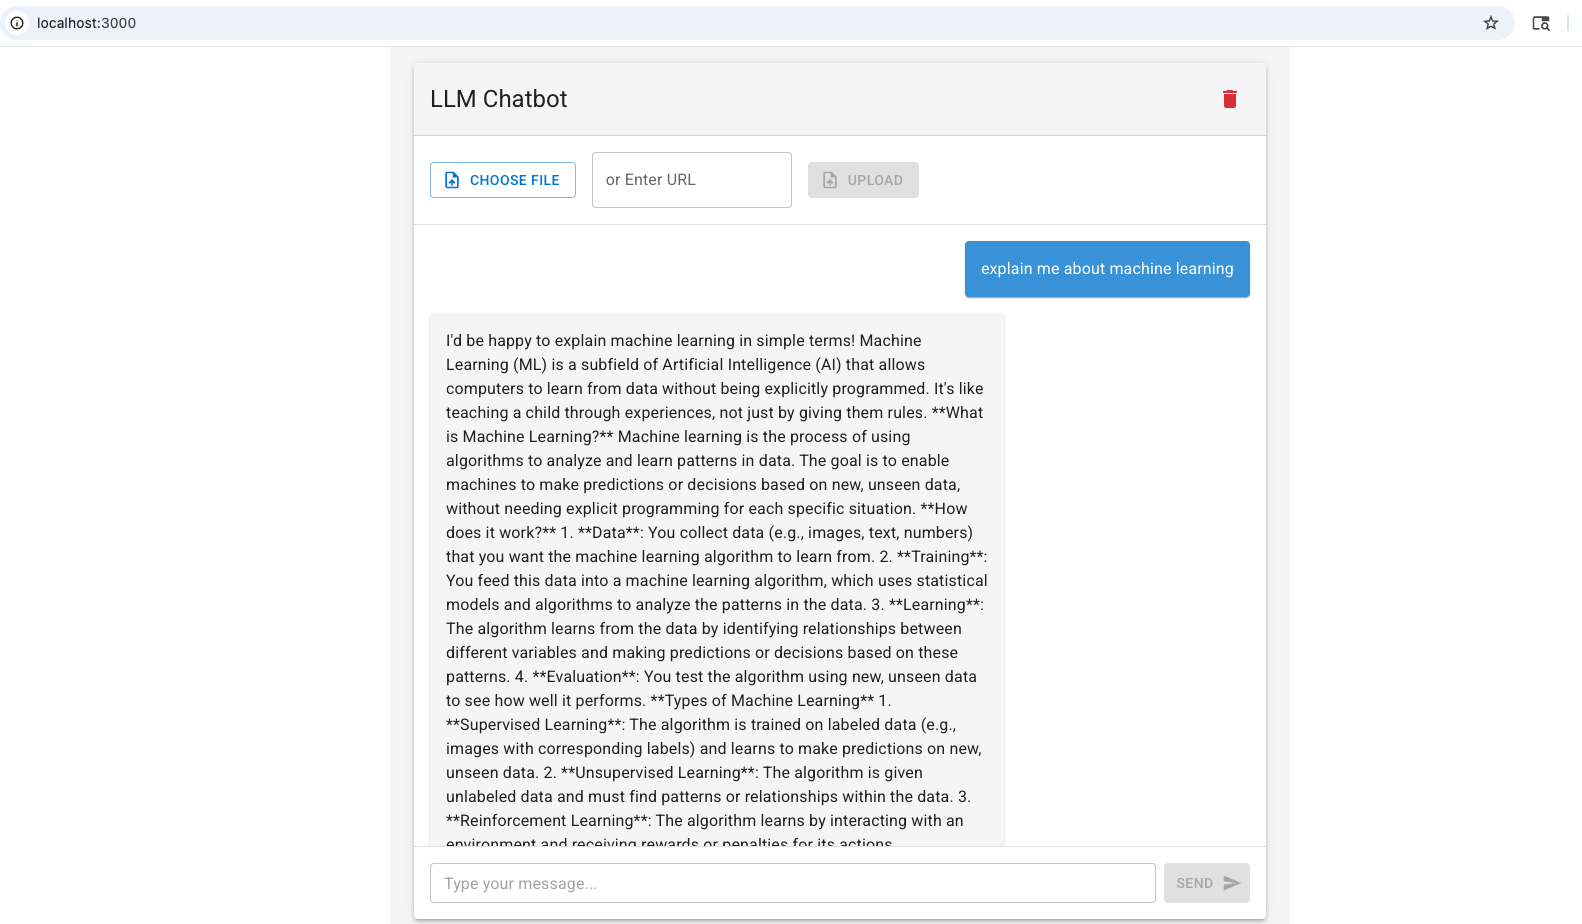
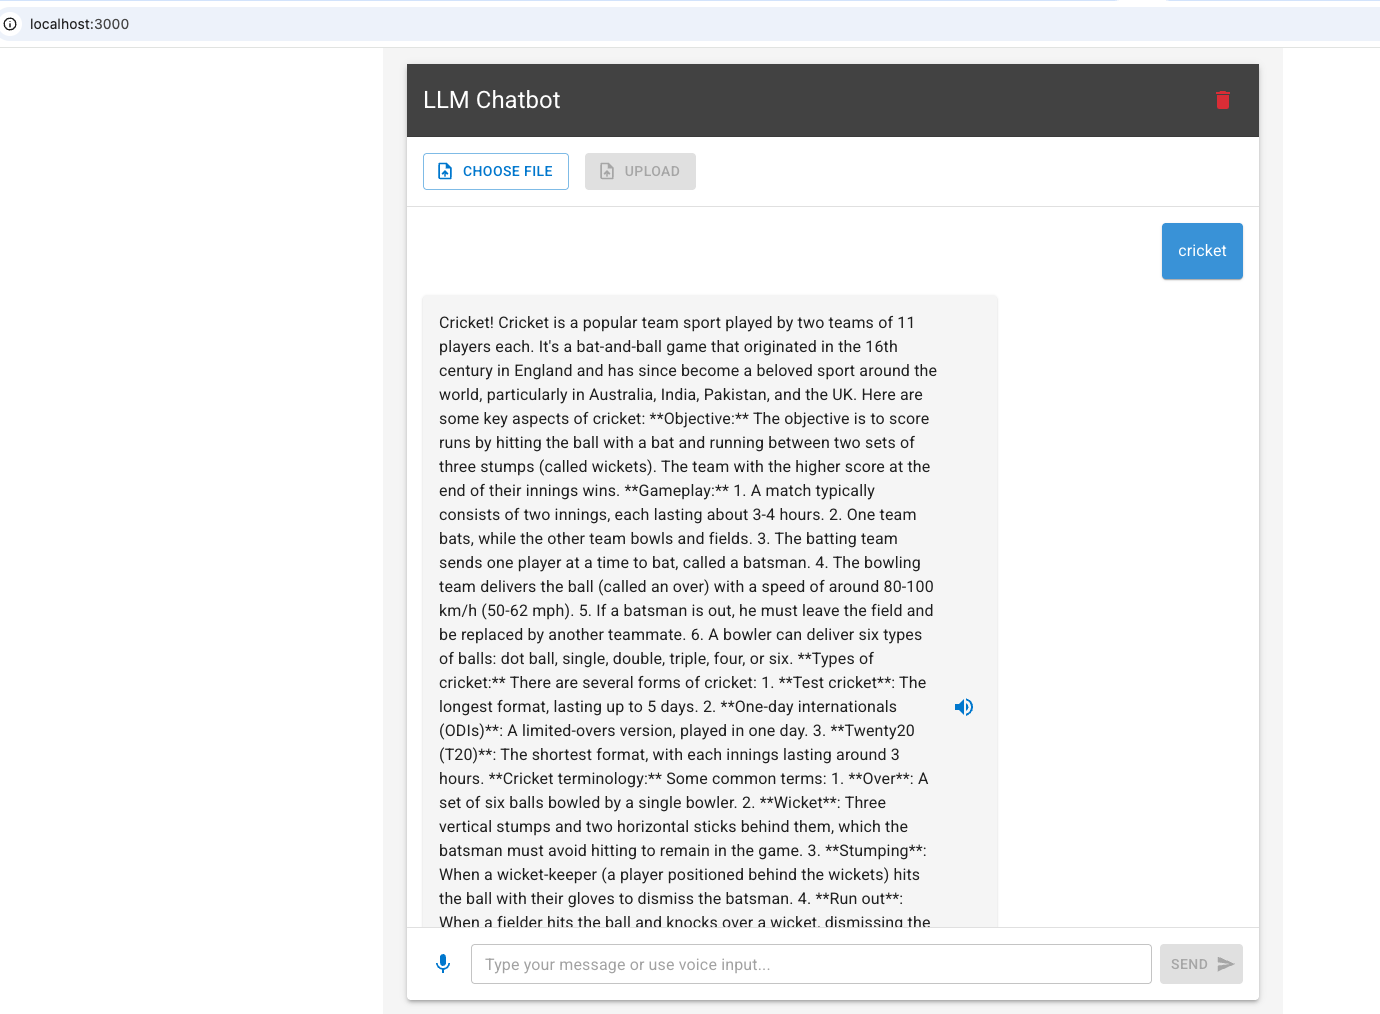
Cleanup

diff --git a/src/frontend/src/App.js b/src/frontend/src/App.js
@@ -163,8 +163,8 @@ function App() {
   };
 
   const handleRagUpload = async () => {
-    if (!ragFile && !ragUrl) {
-      setError('Please select a file or enter a URL');
+    if (!ragFile) {
+      setError('Please select a file');
       return;
     }
 
@@ -172,18 +172,11 @@ function App() {
     setError(null);
     
     try {
-      let response;
-      if (ragFile) {
-        const formData = new FormData();
-        formData.append('file', ragFile);
-        response = await api.post('/api/v1/rag', formData, {
-          headers: { 'Content-Type': 'multipart/form-data' },
-        });
-      } else if (ragUrl) {
-        response = await api.post('/api/v1/rag', {
-          url: ragUrl,
-        });
-      }
+      const formData = new FormData();
+      formData.append('file', ragFile);
+      const response = await api.post('/api/v1/rag', formData, {
+        headers: { 'Content-Type': 'multipart/form-data' },
+      });
 
       if (response.data.status === 'success') {
         setError(null);
@@ -192,7 +185,6 @@ function App() {
           sender: 'bot'
         }]);
         setRagFile(null);
-        setRagUrl('');
         if (fileInputRef.current) fileInputRef.current.value = '';
       } else {
         throw new Error(response.data.message || 'Failed to upload');
@@ -398,17 +390,10 @@ function App() {
                 ref={fileInputRef}
               />
             </Button>
-            <TextField
-              label="or Enter URL"
-              value={ragUrl}
-              onChange={e => setRagUrl(e.target.value)}
-              disabled={uploading}
-              sx={{ minWidth: 200 }}
-            />
             <Button
               variant="contained"
               onClick={handleRagUpload}
-              disabled={uploading || (!ragFile && !ragUrl)}
+              disabled={uploading || !ragFile}
               startIcon={uploading ? <CircularProgress size={20} /> : <UploadFileIcon />}
             >
               {uploading ? 'Uploading...' : 'Upload'}

diff --git a/README.md b/README.md
@@ -1,4 +1,4 @@
-# llmchatbot ( WIP )
+# llmchatbot 
 Simple LLM chatbot using ollama
 
 # Prerequisites
@@ -32,6 +32,9 @@ make run
 * Select data/test.csv (sample file) ( if you have your own csv/docx file you can upload it)
 * Click on 'UPLOAD'
 ![RAG-test](./src/images/RAG-test.png)
+
+# Voice support
+Click on 'mike' icon and talk, your voice will be converted into words and Click on Send. Once the LLM responds, you can click on 'Speaker' icon to listen
 
 # Clear context
   Click on delete icon
